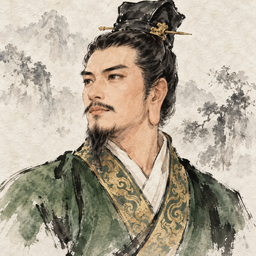
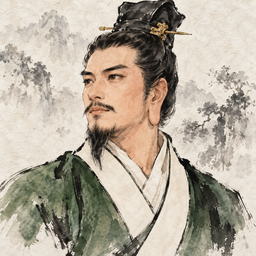
feat(portrait): ink-wash portraits for Zhang Liao, Huang Zhong, Lu Meng, Sun Quan, Zhuge Liang, Sima Yi, Zhou Yu and Lu Xun after their non-combat looks, and Liu Bei, Zhang Fei, Zhao Yun and Cao Cao redrawn

Changed region(s): [[0.2812, 0.5312, 0.75, 1.0]]

diff --git a/tools/illustrations/portraits/sheets/prompts.md b/tools/illustrations/portraits/sheets/prompts.md
@@ -100,3 +100,28 @@ Zu Mao, a loyal Wu officer of about forty serving Sun Jian in the Chinese Three 
 
 - 1번(채택): Zhang Chun of the Chinese Three Kingdoms era (Eastern Han, 187 AD): a Han Chinese former official, once Chancellor of Zhongshan, who rebelled and proclaimed himself 'Heaven-Filling General' and 'King of Anding', allied with Wuhuan horsemen. A Han Chinese man of about forty-five, heavy-set, coarse arrogant and violent face, thick black beard and moustache, heavy brows, sneering mouth. He wears Han-style iron lamellar armour, and over it gaudy self-made royal trappings far too grand for his station: a flowing purple cape with gold embroidered borders, gold-trimmed shoulder plates, a gold belt; NO fur hat, NO fur cloak, not a nomad, clearly a Han general. On his head a black Han official's cap crowned with an ostentatious gilded ornament. He sits haughtily with one hand on the hilt of a ring-pommel sabre planted before him, chin raised, looking down at the viewer with contempt, three-quarter view facing left. Background in light ink wash: a few Wuhuan horsemen and their plain pennants (no writing) on a windy plain behind him, faint. Waist-up portrait, square 1:1 image. FACE PROPORTIONS (important, mature adult look, not youthful): small narrow eyes with heavy upper lids set rather far apart, low thick straight eyebrows close to the eyes, a long straight nose bridge and a long philtrum, a small firm mouth set low on the face, a long squarish jaw, defined cheekbones and nasolabial lines. Absolutely no large round anime eyes, no baby face. No text, no names, no seals, no watermark, no border. Style: East Asian ink wash painting with light watercolor tints, expressive calligraphic brush strokes, soft rice-paper texture background. Match the brushwork, palette and paper of the reference image.
 - 2번: Zhang Chun of the Chinese Three Kingdoms era (Eastern Han, 187 AD): a Han Chinese former official, once Chancellor of Zhongshan, who rebelled and proclaimed himself 'Heaven-Filling General' and 'King of Anding', allied with Wuhuan horsemen. A Han Chinese man of about forty-five, heavy-set, coarse arrogant and violent face, thick black beard and moustache, heavy brows, sneering mouth. He wears Han-style iron lamellar armour, and over it gaudy self-made royal trappings far too grand for his station: a flowing purple cape with gold embroidered borders, gold-trimmed shoulder plates, a gold belt; NO fur hat, NO fur cloak, not a nomad, clearly a Han general. On his head a Han iron helmet with a tall gilded crest and a purple tassel. He thrusts a riding whip forward as if ordering a brutal charge, shouting with a cruel grin, turned to the right, the head of a shaggy steppe horse beside him. Background in light ink wash: a burning frontier town and distant galloping riders under plain banners (no writing), faint. Waist-up portrait, square 1:1 image. FACE PROPORTIONS (important, mature adult look, not youthful): small narrow eyes with heavy upper lids set rather far apart, low thick straight eyebrows close to the eyes, a long straight nose bridge and a long philtrum, a small firm mouth set low on the face, a long squarish jaw, defined cheekbones and nasolabial lines. Absolutely no large round anime eyes, no baby face. No text, no names, no seals, no watermark, no border. Style: East Asian ink wash painting with light watercolor tints, expressive calligraphic brush strokes, soft rice-paper texture background. Match the brushwork, palette and paper of the reference image.
+
+## 후반 8인 — 장료·황충·여몽·손권·제갈량·사마의·주유·육손 (2026-10-30, 단독, `sheets/<키>-single.png` 1254px → 496px, 게임용 256px)
+비전투 도트(`ver5/tools/doteditor/tools/civ3d.py` STORY)의 관·투구·깃털·옷 색을 옮겼다(제갈량·사마의·주유·육손은 삼국지 14 기반 외형). `codex-image.sh <출력> "<아래 문장>" tools/illustrations/style-samples/4-ink-wash.png`.
+
+- 1판: 모든 칸에 같은 얼굴 문장(좁은 눈·긴 턱·광대) → "다 꽃미남, 개성 없음".
+- 2판: 미남 금지·성격파 배우 → "너무 이상해졌다"(황충 실성한 웃음, 여몽·손권 뚱뚱, 제갈량 환자, 육손 순박). 장료와 사마의 포즈만 호평.
+- 3판(채택): 장료는 2판 그대로. 나머지는 정사·연의 용모(손권 方頤大口·目有精光·碧眼紫髯, 제갈량 面如冠玉, 주유 미주랑·長壯有姿貌, 황충 老當益壯)를 근거로 "멋있고 위엄 있게, 웃음·비만·병약 금지"를 붙였다. 사마의는 게임 속 30대로.
+- 4판: 여몽과 손권이 닮았다 → 여몽은 투구(붉은 술)·찰갑·박도로 거친 무장, 손권은 수염을 "분명한 보라색"으로 강조해 둘만 다시 그렸다.
+
+- zhangliao: Zhang Liao (Wenyuan) of the Chinese Three Kingdoms era, a hard-bitten cavalry general from the northern frontier of Bing province, about thirty-five. FACE: gaunt weathered sun-darkened face, a high-bridged hooked hawk nose, deep-set hooded eyes under a jutting brow ridge, sunken cheeks, an old pale scar across his left cheekbone, thin lips pressed tight, a thin drooping moustache and a sparse short goatee; wiry and bony, a predator's stillness. A dark iron helmet with a cheek guard and a tall slate-blue horsehair plume. A long dark navy coat open over a slate-blue tunic, steel shoulder plates, a brown leather belt. He sits on a camp stool with a long-handled curved glaive leaning on his shoulder, forearms on his knees, staring hard at the viewer from under his brows, three-quarter view facing right. Background in light ink wash: a frontier fortress wall at dusk with tethered horses, faint. Waist-up portrait, square 1:1 image. IMPORTANT: a distinct individual face, NOT idealized, NOT a pretty or handsome model face, NOT a generic hero face; paint him like a character actor with the specific features described, the face must be instantly recognizable and different from any other officer. No large anime eyes. No text, no names, no seals, no watermark, no border. Style: East Asian ink wash painting with light watercolor tints, expressive calligraphic brush strokes, soft rice-paper texture background. Match the brushwork, palette and paper of the reference image.
+- huangzhong: Huang Zhong (Hansheng) of the Chinese Three Kingdoms era, the veteran general of Changsha, about sixty, 'old yet ever more vigorous' (lao dang yi zhuang): broad-shouldered, upright and powerful, arms still thick with muscle. FACE: a stern noble old warrior's face, weathered skin with deep lines on the brow, a strong straight nose, fierce keen eyes under bushy white brows, mouth set firm with no smile; white hair in a topknot, a long flowing white beard. A deep green tunic, steel shoulder plates, a red sash. He draws a long recurve bow at full draw with an arrow nocked, sighting along the shaft with total calm concentration, three-quarter view facing left. Background in light ink wash: a steep pine ridge (Dingjun Mountain) in autumn mist with a hawk, faint. Waist-up portrait, square 1:1 image. This is a portrait for a serious Three Kingdoms strategy game: the officer must look impressive, dignified and cool, with a face that is good-looking in a mature masculine way yet clearly his own (the specific features described), never goofy, never fat, never sickly, never a grinning or laughing face; grave Three Kingdoms mood. No large anime eyes. No text, no names, no seals, no watermark, no border. Style: East Asian ink wash painting with light watercolor tints, expressive calligraphic brush strokes, soft rice-paper texture background. Match the brushwork, palette and paper of the reference image.
+- lumeng: Lu Meng (Ziming) of the Chinese Three Kingdoms era, a fierce Wu general about thirty-two, a battle-hardened warrior risen from the ranks: big-boned, broad-shouldered, muscular and battle-scarred (not fat). FACE: a rough fierce warrior's face, sun-darkened skin, a heavy jaw, a thick neck, a broad flat-bridged nose, deep-set burning eyes under heavy scowling brows, a small old scar on the brow, a full bristling black beard and moustache cut short; a dangerous, cunning soldier's look, clearly a man of war. A dark iron helmet with a crimson-red horsehair tassel on top and leather neck flaps. Crimson tunic under dark iron lamellar armour, brown leather shoulder guards, a brown leather belt. He grips a long-handled blade planted at his side with one fist, a bamboo-slip book tucked into his belt, glaring sideways with a sharp calculating stare, three-quarter view facing right. Background in light ink wash: a misty Yangtze riverbank at dawn with merchant-looking boats whose hidden soldiers wear white, faint. Waist-up portrait, square 1:1 image. This is a portrait for a serious Three Kingdoms strategy game: the officer must look impressive, dignified and cool, with a face that is good-looking in a mature masculine way yet clearly his own (the specific features described), never goofy, never fat, never sickly, never a grinning or laughing face; grave Three Kingdoms mood. No large anime eyes. No text, no names, no seals, no watermark, no border. Style: East Asian ink wash painting with light watercolor tints, expressive calligraphic brush strokes, soft rice-paper texture background. Match the brushwork, palette and paper of the reference image.
+- sunquan: Sun Quan (Zhongmou) of the Chinese Three Kingdoms era, the young lord of Jiangdong, about twenty-six, tall and powerfully built with broad shoulders and a strong chest (fit, not fat). FACE, after the histories and the novel: 'a square jaw and a large mouth, eyes shining with light, blue eyes and a PURPLE beard' — a broad square jaw, a wide firm mouth, bright piercing blue-green eyes; his famous beard and moustache are unmistakably PURPLE: painted in a clearly visible violet-purple wash with reddish-purple highlights, a full neat beard along the jaw and chin, not black; his hair is also dark purple. A commanding, regal, slightly guarded look of a young ruler. A small gold crown on his topknot. A crimson robe with darker red lapels, a gold belt. He sits upright on a lord's seat, one hand resting on a sheathed sword planted before him, the other on his knee, gazing steadily at the viewer, almost facing the viewer. Background in light ink wash: the broad Yangtze with a large war junk and plain red banners without writing, faint. Waist-up portrait, square 1:1 image. This is a portrait for a serious Three Kingdoms strategy game: the officer must look impressive, dignified and cool, with a face that is good-looking in a mature masculine way yet clearly his own (the specific features described), never goofy, never fat, never sickly, never a grinning or laughing face; grave Three Kingdoms mood. No large anime eyes. No text, no names, no seals, no watermark, no border. Style: East Asian ink wash painting with light watercolor tints, expressive calligraphic brush strokes, soft rice-paper texture background. Match the brushwork, palette and paper of the reference image.
+- zhugeliang: Zhuge Liang (Kongming) of the Chinese Three Kingdoms era, about twenty-seven, very tall (eight chi) and slender but healthy. FACE, after the novel: 'a face like cap-jade, with the air of an immortal' — a handsome serene face with smooth clear skin, a high noble forehead, long straight brows, calm deep wise eyes, a straight refined nose, a thin long moustache and a neat pointed goatee; otherworldly composure. Long straight black hair over his shoulders. A tall teal ridged scholar's cap with a gold band and a teal jewel. A white robe with deep-blue lapels, a teal ribbon at the neck, a purple sash. He holds a white crane-feather fan before his chest, three-quarter view facing left, the faintest calm hint of a smile only in the eyes. Background in light ink wash: a thatched cottage among bamboo at Longzhong in light snow, faint. Waist-up portrait, square 1:1 image. This is a portrait for a serious Three Kingdoms strategy game: the officer must look impressive, dignified and cool, with a face that is good-looking in a mature masculine way yet clearly his own (the specific features described), never goofy, never fat, never sickly, never a grinning or laughing face; grave Three Kingdoms mood. No large anime eyes. No text, no names, no seals, no watermark, no border. Style: East Asian ink wash painting with light watercolor tints, expressive calligraphic brush strokes, soft rice-paper texture background. Match the brushwork, palette and paper of the reference image.
+- simayi: Sima Yi (Zhongda) of the Chinese Three Kingdoms era, about thirty-five, lean and tall. FACE: a sharp intelligent face, a high-bridged slightly hooked nose, thin lips, narrow cold watchful eyes, sharp cheekbones, a neat black moustache and a short black beard; black hair (no grey), still young but already cunning and suspicious. A tall dark red-purple official's cap with a gold band. A black robe under a dark bronze coat with faint dragon patterns, a blue-purple collar band down the front, a maroon belt, a sword at his waist. His body faces right but his head turns back over his shoulder in a wary backward glance (the 'wolf glance'), one hand stroking his beard. Background in light ink wash: a dark night camp with a lantern and a map on a low table, faint stars. Waist-up portrait, square 1:1 image. This is a portrait for a serious Three Kingdoms strategy game: the officer must look impressive, dignified and cool, with a face that is good-looking in a mature masculine way yet clearly his own (the specific features described), never goofy, never fat, never sickly, never a grinning or laughing face; grave Three Kingdoms mood. No large anime eyes. No text, no names, no seals, no watermark, no border. Style: East Asian ink wash painting with light watercolor tints, expressive calligraphic brush strokes, soft rice-paper texture background. Match the brushwork, palette and paper of the reference image.
+- zhouyu: Zhou Yu (Gongjin) of the Chinese Three Kingdoms era, 'Handsome Zhou' (Mei Zhoulang), Grand Commander of Wu, about thirty-three, tall and well-built ('tall, strong and of fine appearance'), beardless. FACE: strikingly handsome, the most beautiful man of his age: fine straight nose, clear bright eyes with an elegant proud look, well-shaped brows, a firm confident mouth, refined features full of spirit and charisma. A silver-faced helmet with a crimson-red dome and a long teal horsehair plume. A white robe, silver chest plate, gold shoulder plates, dark leather belt, a purple cape and purple scarf. He points across the river giving the order to attack, the other hand gripping the cape, three-quarter view facing left. Background in light ink wash: Red Cliffs with burning warships reflected on the water, faint. Waist-up portrait, square 1:1 image. This is a portrait for a serious Three Kingdoms strategy game: the officer must look impressive, dignified and cool, with a face that is good-looking in a mature masculine way yet clearly his own (the specific features described), never goofy, never fat, never sickly, never a grinning or laughing face; grave Three Kingdoms mood. No large anime eyes. No text, no names, no seals, no watermark, no border. Style: East Asian ink wash painting with light watercolor tints, expressive calligraphic brush strokes, soft rice-paper texture background. Match the brushwork, palette and paper of the reference image.
+- luxun: Lu Xun (Boyan) of the Chinese Three Kingdoms era, a young Wu general about twenty-six, slim and upright. FACE: young and good-looking, a smooth clean-shaven face with a straight nose, clear sharp intelligent eyes, straight composed brows, a calm closed mouth; he looks young but cool-headed, reserved and quietly confident, the look of a brilliant young commander whom older generals underestimate. A silver helmet with a deep-blue dome and a long yellow horsehair plume. Silver scale armour on chest and shoulders, brown sleeves, a navy skirt and belt, a green cape at the collar. One hand rests on the hilt of a sword at his hip, the other holds a rolled map, he gazes steadily into the distance, almost facing the viewer, head turned slightly right. Background in light ink wash: a long line of wooden camps in dense summer forest along a river, faint. Waist-up portrait, square 1:1 image. This is a portrait for a serious Three Kingdoms strategy game: the officer must look impressive, dignified and cool, with a face that is good-looking in a mature masculine way yet clearly his own (the specific features described), never goofy, never fat, never sickly, never a grinning or laughing face; grave Three Kingdoms mood. No large anime eyes. No text, no names, no seals, no watermark, no border. Style: East Asian ink wash painting with light watercolor tints, expressive calligraphic brush strokes, soft rice-paper texture background. Match the brushwork, palette and paper of the reference image.
+
+## 유비·장비·조운·조조 다시 (2026-10-31, 단독, `sheets/<키>-single.png` 1254px → 496px, 게임용 256px)
+후반 8인과 화질·분위기를 맞추려고 다시 그렸다. 관우·간옹은 유지. 장비는 고함 대신 노려봄(豹頭環眼·燕頷虎鬚), 조운은 "소년 같다"는 평으로 어깨 넓은 20대 후반 무장, 조조는 웃음과 술잔을 뺐다. 유비는 3안 외형(흰 도포·금 어깨)으로 그렸더니 "너무 고귀하다", 삼베옷 안은 "가난뱅이 같다"고 해서, 원래 그림(`style-samples/4-ink-wash.png`)을 참조로 넘겨 옷깃의 금색 자수만 아이보리 옷깃으로 바꿨다.
+
+- zhangfei: Zhang Fei (Yide) of the Chinese Three Kingdoms era, about twenty-six, a towering powerful warrior. FACE, after the novel: 'a leopard's head and round eyes, a swallow's chin and tiger whiskers, a voice like thunder': a broad strong swarthy face, large round fierce glaring eyes, thick black brows drawn together, a thick bushy bristling black beard like a tiger's whiskers, mouth firmly closed in grim menace (not shouting); fearsome and heroic. Bare black topknot with a red band. A green robe with dark iron shoulder guards, a red sash. He grips a long serpent spear (zhangba shemao) held upright beside him, standing his ground like a wall, staring the enemy down, body turned to the right. Background in light ink wash: a wooden bridge over a river (Changban) with wind-swept grass and dust, faint. Waist-up portrait, square 1:1 image. This is a portrait for a serious Three Kingdoms strategy game: the officer must look impressive, dignified and cool, with a face that is good-looking in a mature masculine way yet clearly his own (the specific features described), never goofy, never fat, never sickly, never a grinning or laughing face; grave Three Kingdoms mood. No large anime eyes. No text, no names, no seals, no watermark, no border. Style: East Asian ink wash painting with light watercolor tints, expressive calligraphic brush strokes, soft rice-paper texture background. Match the brushwork, palette and paper of the reference image.
+- zhaoyun: Zhao Yun (Zilong) of the Chinese Three Kingdoms era, about twenty-eight, a tall seasoned cavalry general (not a boy, not youthful): eight chi tall, broad-shouldered and strong. FACE: a clean-cut handsome mature man's face, firm square jaw, straight nose, steady fearless eyes under level brows, a calm composed mouth, clean-shaven with a hint of stubble shadow; dignified, upright and reliable, a veteran's gravity. Silver helmet with a white plume. White robe under silver scale armour, a white cape. He holds a long spear upright beside him with one gauntleted hand, the other on his sword hilt, gazing steadily ahead, three-quarter view facing left. Background in light ink wash: a misty river bank with pear blossoms, faint. Clean, crisp, neat composition. Waist-up portrait, square 1:1 image. This is a portrait for a serious Three Kingdoms strategy game: the officer must look impressive, dignified and cool, with a face that is good-looking in a mature masculine way yet clearly his own (the specific features described), never goofy, never fat, never sickly, never a grinning or laughing face; grave Three Kingdoms mood. No large anime eyes. No text, no names, no seals, no watermark, no border. Style: East Asian ink wash painting with light watercolor tints, expressive calligraphic brush strokes, soft rice-paper texture background. Match the brushwork, palette and paper of the reference image.
+- caocao: Cao Cao (Mengde) of the Chinese Three Kingdoms era, about thirty-five, of short but compact strong build. FACE: a sharp intelligent face, narrow piercing eyes that weigh everything, a strong nose, thin lips set firm, a neat black moustache and goatee; an aura of ambition and authority, cold and formidable, the look of a future hegemon (no smile). Black scholar's cap with a small blue hairpin. A blue robe with steel shoulder armour and a red sash, a sword at his hip. He stands with one hand resting on his sword hilt and the other hand behind his back, looking down at the viewer with a measuring gaze, three-quarter view facing right. Background in light ink wash: plum trees with green plums under a darkening sky with gathering storm clouds, faint. No wine cup. Waist-up portrait, square 1:1 image. This is a portrait for a serious Three Kingdoms strategy game: the officer must look impressive, dignified and cool, with a face that is good-looking in a mature masculine way yet clearly his own (the specific features described), never goofy, never fat, never sickly, never a grinning or laughing face; grave Three Kingdoms mood. No large anime eyes. No text, no names, no seals, no watermark, no border. Style: East Asian ink wash painting with light watercolor tints, expressive calligraphic brush strokes, soft rice-paper texture background. Match the brushwork, palette and paper of the reference image.
+- liubei (참조 이미지 편집): Edit the reference image. Keep EVERYTHING exactly the same — the same man, face, hair, topknot cap and hairpin, pose, green robe, brushwork, rice paper background and framing — and change ONLY the collar: replace the gold embroidered patterned lapel bands with plain ivory (off-white, cream) lapel bands with no embroidery, no pattern and no gold. No text, no seals, no watermark, no border.

diff --git a/tools/illustrations/README.md b/tools/illustrations/README.md
@@ -131,5 +131,5 @@ Square 1:1 image, plain dark navy background, no text, no watermark, no border.
 
 ## 남은 일
 
-- 유비는 `style-samples/4-ink-wash.png`를 그대로 쓴다(포즈가 다른 새 버전이 필요하면 따로 만든다).
+- 유비는 `style-samples/4-ink-wash.png`에서 옷깃의 금색 자수만 아이보리 옷깃으로 바꾼 `portraits/liubei.png`를 쓴다(2026-10-31, 첫 장은 화풍 기준으로 그대로 둔다).
 - 런타임 크기·자르기 규칙과 `ver5/assets/graphics`로 묶는 방식을 정한다. 지금 GUI는 `portraits.png`·`enemies.png` 4열 시트에서 잘라 쓴다.
